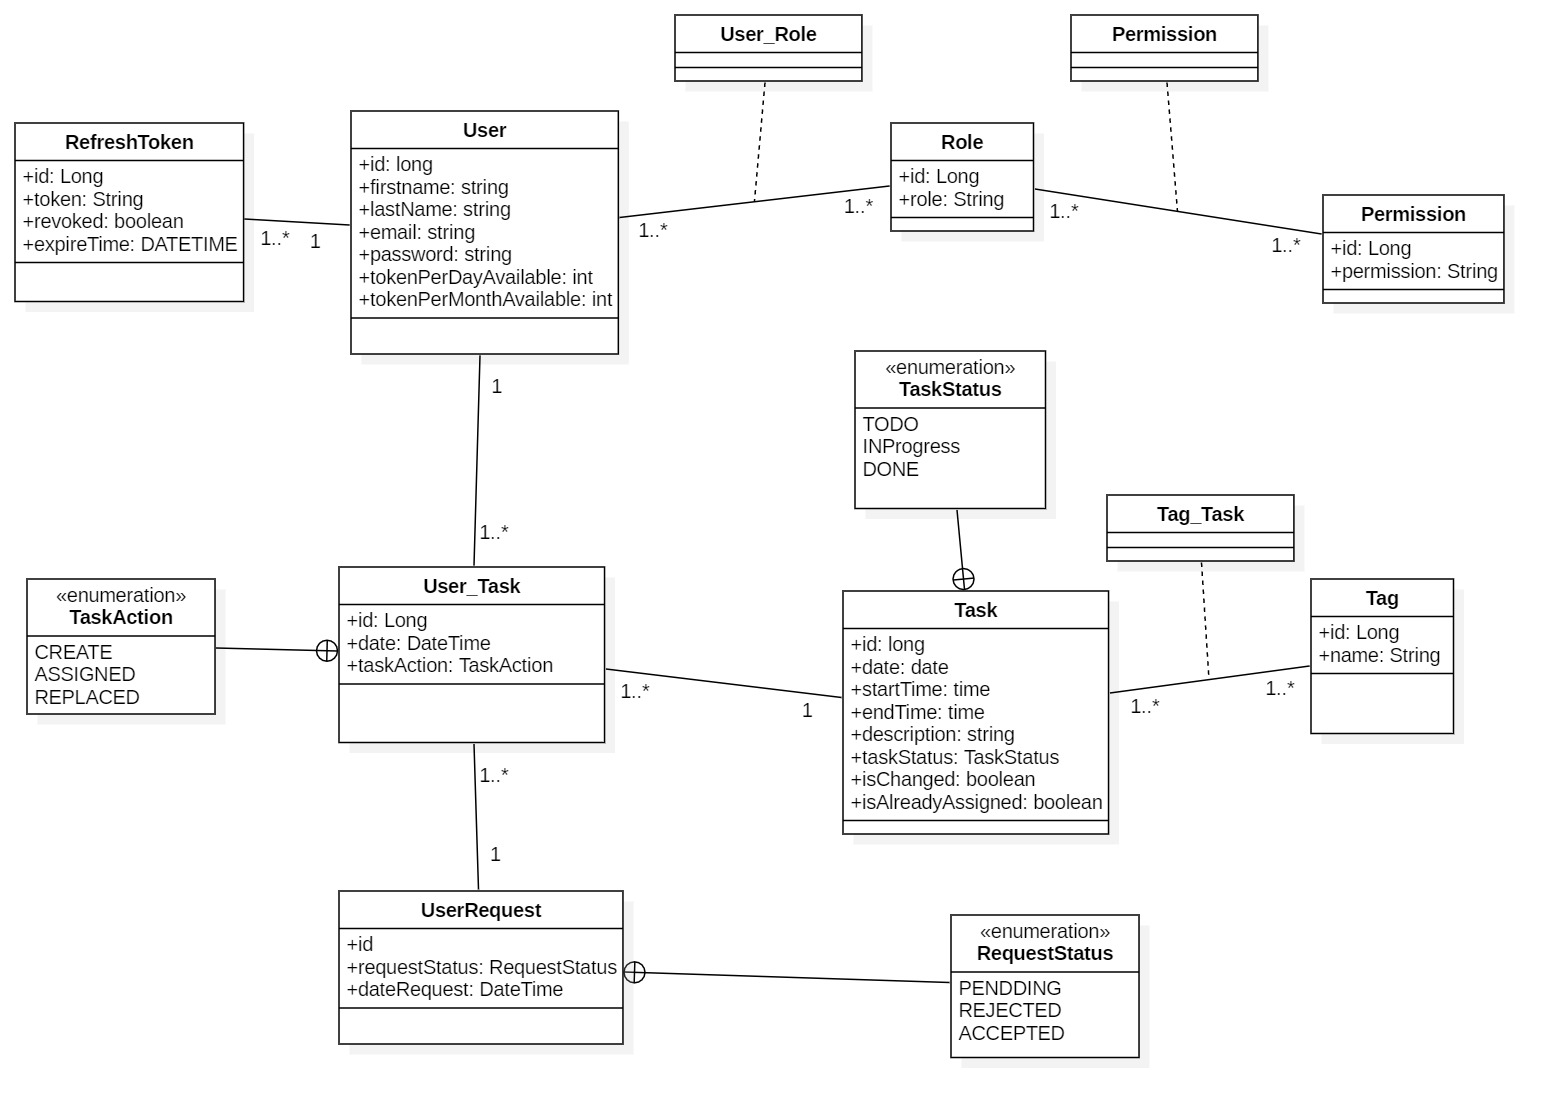
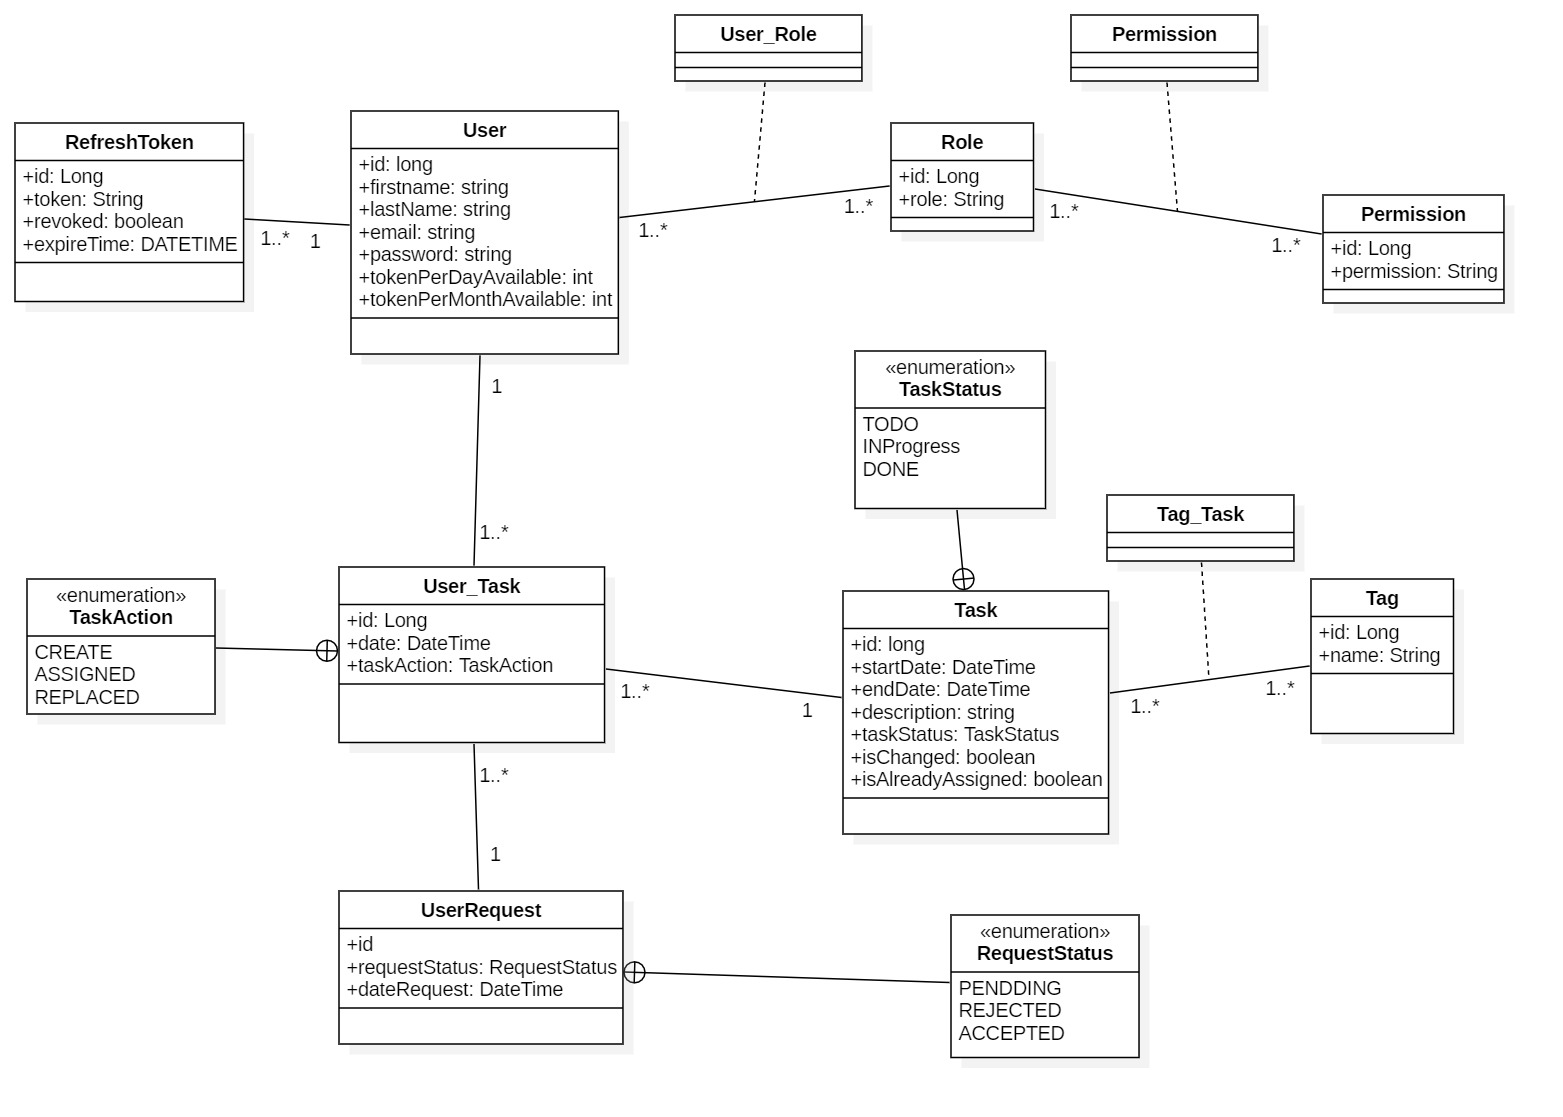
add map struct to my project

Changed region(s): [[0.5528, 0.5783, 0.7063, 0.7305]]

diff --git a/src/main/java/com/example/taskflow/service/serviceImpl/TaskServiceImpl.java b/src/main/java/com/example/taskflow/service/serviceImpl/TaskServiceImpl.java
@@ -13,6 +13,7 @@ import lombok.RequiredArgsConstructor;
 import org.springframework.stereotype.Service;
 
 import java.time.LocalDate;
+import java.time.LocalDateTime;
 import java.time.LocalTime;
 import java.time.temporal.ChronoUnit;
 import java.util.List;
@@ -26,9 +27,8 @@ public class TaskServiceImpl implements TaskService {
     private final TagService tagService;
     @Override
     public Task createTask(Task task, Set<Tag> tag){
-        validateDateTask(task.getDate());
-        validateStartTimeTask(task.getStartTime());
-        validateEndTimeTask(task.getEndTime(), task.getStartTime());
+        validateStartDateTask(task.getStartDate());
+        validateEndDateTask(task.getStartDate(), task.getEndDate());
         task.setTaskStatus(TaskStatus.TODO);
         if (tag.size() < 2)
             throw new CustomValidationException("you should at least give 2 tag for this task");
@@ -39,7 +39,7 @@ public class TaskServiceImpl implements TaskService {
     @Override
     public void addTagToTask(Task task, Set<Tag> tag){
         List<Tag> tagsSaved = tagService.createTags(tag);
-        task.getTags().addAll(tagsSaved);
+        task.setTags(tagsSaved);
     }
     @Override
     public Task getTask(Long id){
@@ -49,15 +49,17 @@ public class TaskServiceImpl implements TaskService {
 
     @Override
     public Task updateTask(Task task) {
-        Task taskExisting = taskRepository.findById(task.getId())
-                .orElseThrow(()-> new CustomValidationException("no task found for provided id"));
+        taskRepository.findById(task.getId())
+                .ifPresent(t -> {
+                    throw new CustomValidationException("no task found for provided id");
+                });
         return taskRepository.save(task);
     }
 
     @Override
     public Task updateStatusTask(Long id, TaskStatus taskStatus){
         Task task = getTask(id);
-        validateUpdateDateOfTaskStatus(task.getDate(), task.getEndTime());
+        validateUpdateDateOfTaskStatus(task.getEndDate());
         task.setTaskStatus(taskStatus);
         return taskRepository.save(task);
     }
@@ -68,26 +70,19 @@ public class TaskServiceImpl implements TaskService {
         taskRepository.delete(task);
     }
 
-    private void validateUpdateDateOfTaskStatus(LocalDate dateTask,
-                                                LocalTime timeEndTask) {
-        if(dateTask.isAfter(LocalDate.now())
-        || (dateTask.equals(LocalDate.now()) && timeEndTask.isAfter(LocalTime.now()))){
+    private void validateUpdateDateOfTaskStatus(LocalDateTime timeEndTask) {
+        if(timeEndTask.isAfter(LocalDateTime.now())){
             throw new CustomValidationException("Task status cannot be updated after the specified date limit.");
         }
     }
 
-    private void validateEndTimeTask(LocalTime endTime, LocalTime startTime) {
-        if (endTime.isBefore(startTime.plus(3, ChronoUnit.DAYS)))
-            throw new ValidationException("End time must be at least 3 days after start time");
+    private void validateStartDateTask(LocalDateTime startDate) {
+        if (startDate.isBefore(LocalDateTime.now()))
+            throw new CustomValidationException("start Date of task shouldn't be before or equals time now");
     }
 
-    private void validateStartTimeTask(LocalTime startTime) {
-        if (startTime.isBefore(LocalTime.now()))
-            throw new ValidationException("start time beginning task should after or equals time now");
-    }
-
-    private void validateDateTask(LocalDate date) {
-        if (date.isBefore(LocalDate.now()))
-            throw new ValidationException("date limit of task should equal or after date now");
+    private void validateEndDateTask(LocalDateTime startDate, LocalDateTime endDate) {
+        if (endDate.isBefore(startDate.plus(3, ChronoUnit.DAYS)))
+                throw new CustomValidationException("The end date and time of the task must be at least 3 days after the start date and time.");
     }
 }

diff --git a/src/main/java/com/example/taskflow/web/controller/TaskController.java b/src/main/java/com/example/taskflow/web/controller/TaskController.java
@@ -1,26 +1,37 @@
 package com.example.taskflow.web.controller;
 
+import com.example.taskflow.entities.Tag;
+import com.example.taskflow.entities.Task;
+import com.example.taskflow.entities.UserTask;
 import com.example.taskflow.model.dto.taskDto.CreateTaskRequest;
 import com.example.taskflow.model.dto.taskDto.TaskResponseDto;
+import com.example.taskflow.model.mapper.TagMapper;
+import com.example.taskflow.model.mapper.TaskMapper;
 import com.example.taskflow.service.TaskService;
+import com.example.taskflow.service.UserTaskService;
 import jakarta.validation.Valid;
+import lombok.RequiredArgsConstructor;
 import org.springframework.web.bind.annotation.PostMapping;
 import org.springframework.web.bind.annotation.RequestBody;
 import org.springframework.web.bind.annotation.RequestMapping;
 import org.springframework.web.bind.annotation.RestController;
 
+import java.util.Set;
+
 @RestController
-@RequestMapping("api/v1/auth")
+@RequestMapping("api/v1/task")
+@RequiredArgsConstructor
 public class TaskController {
-    private TaskService taskService;
-
-    public TaskController(TaskService taskService) {
-        this.taskService = taskService;
-    }
-
+    private final UserTaskService userTaskService;
     @PostMapping
     public TaskResponseDto createTask(@RequestBody
-                                          @Valid CreateTaskRequest createTaskRequest){
+                                          @Valid CreateTaskRequest createTaskRequest)
+            throws InstantiationException, IllegalAccessException {
+        Task task = TaskMapper.INSTANCE.newInstance().createTaskRequestToTask(createTaskRequest);
+        Set<Tag> tags = TagMapper.INSTANCE.newInstance().tagDtoListToTagList(createTaskRequest.tags());
+        UserTask taskSaved = userTaskService.createTask(task, tags);
+        System.out.println(taskSaved);
+
         return null;
     }
 

diff --git a/src/main/java/com/example/taskflow/service/serviceImpl/UserRequestServiceImpl.java b/src/main/java/com/example/taskflow/service/serviceImpl/UserRequestServiceImpl.java
@@ -31,7 +31,7 @@ public class UserRequestServiceImpl implements UserRequestService {
         UserTask userTask = userTaskService.getTaskForUserByTaskAction(appUser, task_id, TaskAction.ASSIGNED);
         checkTokenPerDayForUser(appUser);
         validateIfRequestAlreadyExist(userTask);
-        validateDateLimitOfTask(userTask.getTask().getDate(), userTask.getTask().getEndTime());
+        validateDateLimitOfTask(userTask.getTask().getEndDate());
         UserRequest userRequest = new UserRequest().builder()
                 .dateRequest(LocalDateTime.now())
                 .requestStatus(RequestStatus.PENDING)
@@ -42,9 +42,8 @@ public class UserRequestServiceImpl implements UserRequestService {
 
 
 
-    private void validateDateLimitOfTask(LocalDate dateLimit, LocalTime endTime) {
-        if(dateLimit.isBefore(LocalDate.now())
-                || (dateLimit.equals(LocalDate.now()) && endTime.isBefore(LocalTime.now()))){
+    private void validateDateLimitOfTask(LocalDateTime endDateOfTask) {
+        if(endDateOfTask.isBefore(LocalDateTime.now())){
             throw new CustomValidationException("You cannot make a request for a task with a deadline that has already passed.");
         }
     }

diff --git a/src/main/java/com/example/taskflow/entities/Task.java b/src/main/java/com/example/taskflow/entities/Task.java
@@ -6,7 +6,9 @@ import jakarta.persistence.*;
 import lombok.*;
 
 import java.time.LocalDate;
+import java.time.LocalDateTime;
 import java.time.LocalTime;
+import java.util.ArrayList;
 import java.util.Collection;
 
 @Entity @Getter @Setter
@@ -19,16 +21,14 @@ public class Task {
     private Long id;
     private String title;
     private String description;
-    private LocalDate date;
-    private LocalTime startTime;
-    private LocalTime endTime;
+    private LocalDateTime startDate;
+    private LocalDateTime endDate ;
     private TaskStatus taskStatus;
-    @Column(columnDefinition = "boolean default false")
-    private boolean isChanged;
-    @Column(columnDefinition = "boolean default false")
-    private boolean isAlreadyAssigned;
+    private boolean isChanged = false ;
+    private boolean isAlreadyAssigned = false;
     @ManyToMany
-    private Collection<Tag> tags;
+    @JsonBackReference
+    private Collection<Tag> tags = new ArrayList<>();
     @OneToMany(mappedBy = "task", cascade = CascadeType.REMOVE)
     @JsonBackReference
     private Collection<UserTask> userTasks;

diff --git a/src/main/java/com/example/taskflow/model/mapper/TaskMapper.java b/src/main/java/com/example/taskflow/model/mapper/TaskMapper.java
@@ -1,0 +1,25 @@
+package com.example.taskflow.model.mapper;
+
+import com.example.taskflow.entities.Tag;
+import com.example.taskflow.entities.Task;
+import com.example.taskflow.model.dto.taskDto.CreateTaskRequest;
+import org.mapstruct.Mapper;
+import org.mapstruct.Mapping;
+import org.mapstruct.Named;
+import org.mapstruct.factory.Mappers;
+
+import java.util.ArrayList;
+import java.util.Collection;
+
+@Mapper
+public interface TaskMapper {
+    Class<? extends TaskMapper> INSTANCE = Mappers.getMapperClass(TaskMapper.class);
+    @Mapping(target = "id", ignore = true)
+    @Mapping(target = "isChanged", ignore = true)
+    @Mapping(target = "isAlreadyAssigned", ignore = true)
+    @Mapping(target = "userTasks", ignore = true)
+    @Mapping(target = "taskStatus", ignore = true)
+    @Mapping(target = "tags", ignore = true)
+    Task createTaskRequestToTask(CreateTaskRequest createTaskRequest);
+
+}

diff --git a/src/main/java/com/example/taskflow/model/mapper/TagMapper.java b/src/main/java/com/example/taskflow/model/mapper/TagMapper.java
@@ -1,0 +1,25 @@
+package com.example.taskflow.model.mapper;
+
+import com.example.taskflow.entities.Tag;
+import com.example.taskflow.model.dto.tagDto.TagRequestDto;
+import org.mapstruct.Mapper;
+import org.mapstruct.Mapping;
+import org.mapstruct.Named;
+import org.mapstruct.factory.Mappers;
+
+import java.util.Collection;
+import java.util.Set;
+import java.util.stream.Collectors;
+
+@Mapper
+public interface TagMapper {
+    Class<? extends TagMapper> INSTANCE = Mappers.getMapperClass(TagMapper.class);
+    @Mapping(target ="id" ,ignore = true)
+    @Mapping(target ="name" ,source = "name")
+    Tag tagDtoToTag(TagRequestDto tagRequestDto);
+    default Set<Tag> tagDtoListToTagList(Set<TagRequestDto> tags){
+        return tags.stream()
+                .map(this::tagDtoToTag)
+                .collect(Collectors.toSet());
+    }
+}

diff --git a/src/main/java/com/example/taskflow/configuration/SecurityConfiguration.java b/src/main/java/com/example/taskflow/configuration/SecurityConfiguration.java
@@ -8,7 +8,6 @@ import org.springframework.context.annotation.Bean;
 import org.springframework.context.annotation.Configuration;
 import org.springframework.security.authentication.AuthenticationProvider;
 import org.springframework.security.config.annotation.method.configuration.EnableGlobalMethodSecurity;
-import org.springframework.security.config.annotation.method.configuration.EnableMethodSecurity;
 import org.springframework.security.config.annotation.web.builders.HttpSecurity;
 import org.springframework.security.config.annotation.web.configuration.EnableWebSecurity;
 import org.springframework.security.config.annotation.web.configurers.AbstractHttpConfigurer;

diff --git a/src/main/java/com/example/taskflow/model/dto/taskDto/CreateTaskRequest.java b/src/main/java/com/example/taskflow/model/dto/taskDto/CreateTaskRequest.java
@@ -1,4 +1,21 @@
 package com.example.taskflow.model.dto.taskDto;
 
-public record CreateTaskRequest() {
+import com.example.taskflow.entities.Tag;
+import com.example.taskflow.entities.enums.TaskStatus;
+import com.example.taskflow.model.dto.tagDto.TagRequestDto;
+
+import java.time.LocalDate;
+import java.time.LocalDateTime;
+import java.time.LocalTime;
+import java.util.Collection;
+import java.util.Set;
+
+public record CreateTaskRequest(
+        String title,
+        String description,
+        LocalDateTime startDate,
+        LocalDateTime endDate,
+        Set<TagRequestDto> tags
+
+) {
 }

diff --git a/src/main/java/com/example/taskflow/web/controller/test.java b/src/main/java/com/example/taskflow/web/controller/test.java
@@ -1,12 +1,9 @@
 package com.example.taskflow.web.controller;
 
-import org.slf4j.Logger;
-import org.slf4j.LoggerFactory;
 import org.springframework.http.ResponseEntity;
 import org.springframework.security.access.prepost.PreAuthorize;
-import org.springframework.security.core.Authentication;
-import org.springframework.security.core.context.SecurityContextHolder;
 import org.springframework.web.bind.annotation.GetMapping;
+import org.springframework.web.bind.annotation.RequestMapping;
 import org.springframework.web.bind.annotation.RestController;
 
 @RestController

diff --git a/src/main/java/com/example/taskflow/model/mapper/UserMapper.java b/src/main/java/com/example/taskflow/model/mapper/UserMapper.java
@@ -2,7 +2,11 @@ package com.example.taskflow.model.mapper;
 
 import com.example.taskflow.model.dto.authDto.AuthenticationRequestDto;
 import com.example.taskflow.entities.AppUser;
+import com.example.taskflow.model.dto.authDto.RegisterRequestDto;
+import org.mapstruct.Mapper;
+import org.mapstruct.Mapping;
+import org.mapstruct.factory.Mappers;
 
 public interface UserMapper {
-    AppUser toUser(AuthenticationRequestDto authenticationRequestDto);
+
 }

diff --git a/src/main/java/com/example/taskflow/entities/AppUser.java b/src/main/java/com/example/taskflow/entities/AppUser.java
@@ -27,6 +27,6 @@ public class AppUser {
     @OneToMany(mappedBy = "appUser")
     @JsonBackReference
     private Collection<UserTask> userTasks;
-    private int TokenPerDayAvailable;
-    private int TokenPerMonthAvailable;
+    private int TokenPerDayAvailable = 2;
+    private int TokenPerMonthAvailable = 2;
 }

diff --git a/src/main/java/com/example/taskflow/model/dto/taskDto/TaskResponseDto.java b/src/main/java/com/example/taskflow/model/dto/taskDto/TaskResponseDto.java
@@ -1,4 +1,6 @@
 package com.example.taskflow.model.dto.taskDto;
 
-public record TaskResponseDto() {
+public record TaskResponseDto(
+        
+) {
 }
